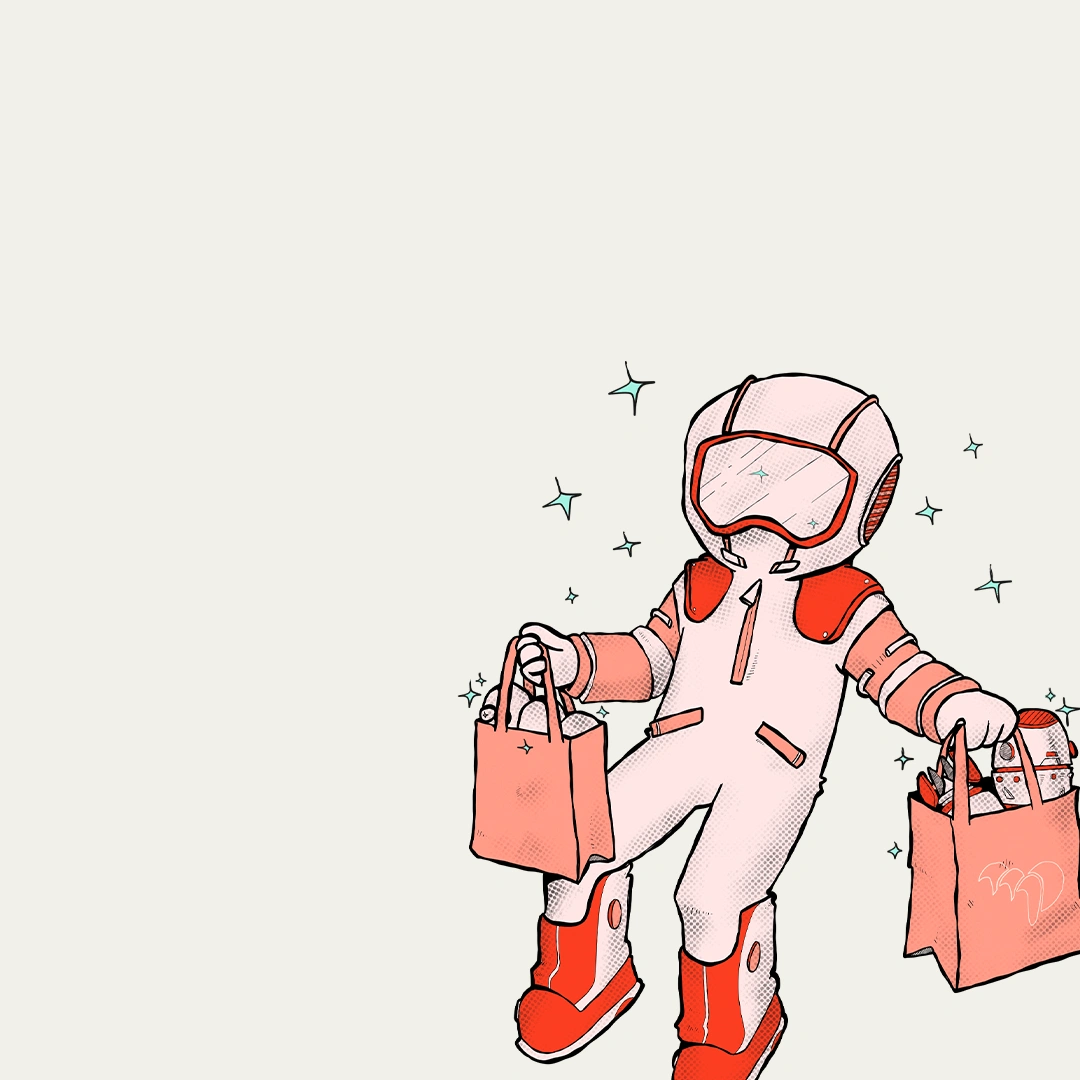
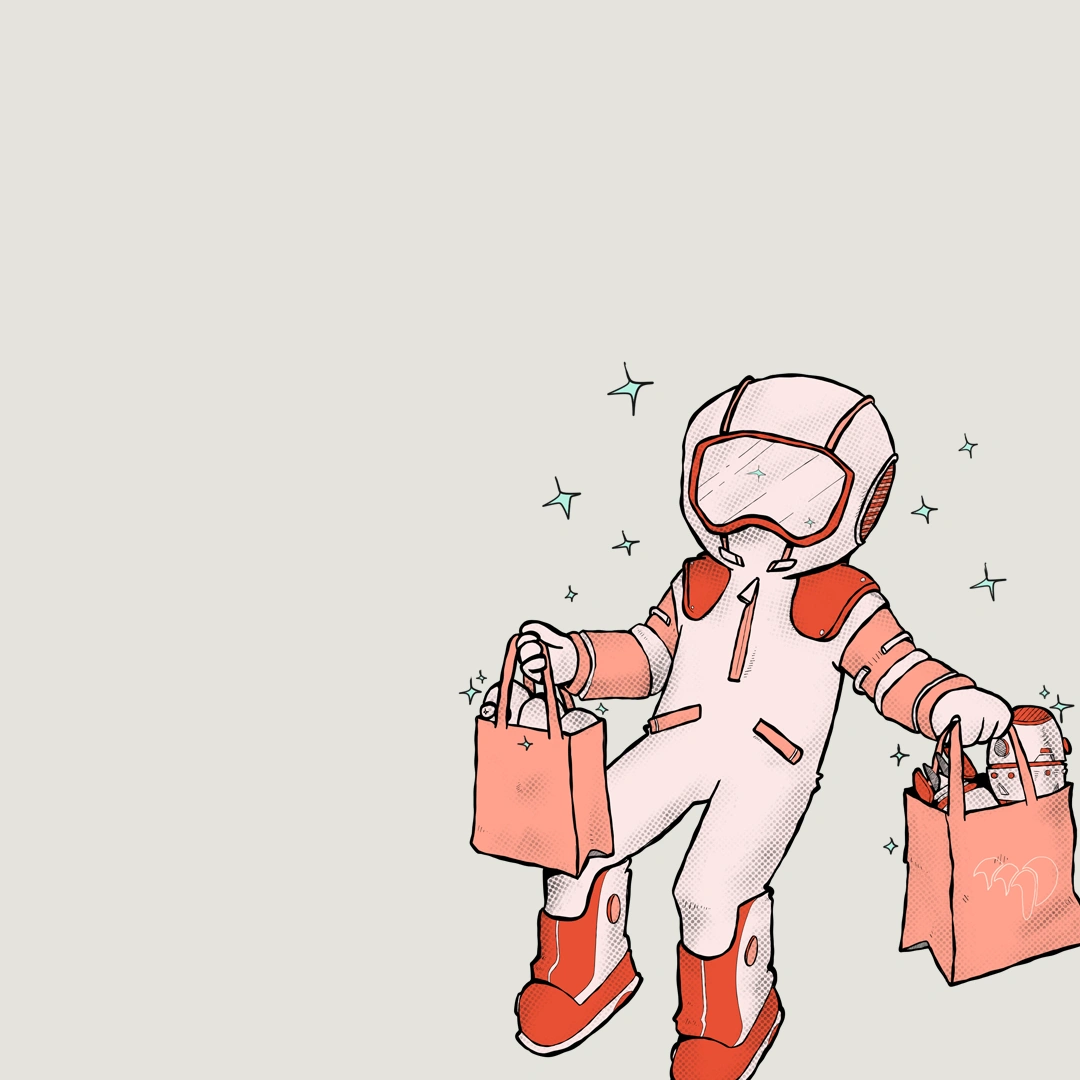
style(ui): refresh service art and theme tokens
Give illustration dedicated images and retune surfaces
so service blocks and footer match the new palette.

diff --git a/components/theme/ThemeChooser.tsx b/components/theme/ThemeChooser.tsx
@@ -47,8 +47,7 @@ function ChooserPane({ mode, imageSrc, priority }: PaneProps) {
       {/* Match home hero: Container + pt-32/md:pt-76 — not vertically centered */}
       <div className="relative z-10 mx-auto flex min-h-svh w-full max-w-7xl flex-col items-center px-16 pt-32 pb-76 text-center md:px-24 md:pt-76">
         <h1
-          style={{ color: "#0ae68e" }}
-          className="mt-16 max-w-none text-3xl font-bold leading-display tracking-heading-lg sm:text-heading-lg sm:tracking-heading-lg lg:w-[15ch]"
+          className="mt-16 max-w-none text-3xl text-shockingly-green font-bold leading-display tracking-heading-lg sm:text-heading-lg sm:tracking-heading-lg lg:w-[15ch]"
         >
           سوخت خلاقیت برای رسیدن به مدار توجه
         </h1>
@@ -294,7 +293,7 @@ export function ThemeChooser({ onComplete }: ThemeChooserProps) {
             onPointerCancel={onPointerUp}
             aria-hidden
           />
-          <div className="pointer-events-none absolute inset-y-0 w-0.5 bg-shockingly-green left-1/2 -translate-x-1/2" />
+          {/* <div className="pointer-events-none absolute inset-y-0 w-0.5 bg-shockingly-green left-1/2 -translate-x-1/2" /> */}
           <button
             type="button"
             className="absolute top-1/2 left-1/2 flex size-48 -translate-x-1/2 -translate-y-1/2 cursor-ew-resize touch-none items-center justify-center rounded-full round-keep bg-shockingly-green text-background outline-none focus-visible:ring-2 focus-visible:ring-shockingly-green focus-visible:ring-offset-2 focus-visible:ring-offset-[#0e100f]"

diff --git a/components/ServiceBlock.tsx b/components/ServiceBlock.tsx
@@ -53,14 +53,14 @@ export function ServiceBlock({
             }`}
           >
             <h3
-              className={`text-heading-sm tracking-heading-sm transition-transform duration-300 ease-out group-hover:-translate-x-1 md:text-heading md:tracking-heading ${serviceColorClass[color]}`}
+              className={`text-heading-sm tracking-heading-sm transition-transform duration-300 ${slug === "illustration" ? "bg-off-background rounded-lg p-2" : ""} ease-out group-hover:-translate-x-1 md:text-heading md:tracking-heading ${serviceColorClass[color]}`}
             >
               {name}
             </h3>
-            <p className="mt-8 text-body-sm text-foreground sm:text-body">
+            <p className={`text-body-sm text-foreground sm:text-body ${slug === "illustration" ? "bg-off-background rounded-lg p-2" : ""}`}>
               {shortDescription}
             </p>
-            <span className="mt-16 inline-flex items-center justify-center rounded-full border border-surface-25 bg-background/50 px-20 py-12 text-body-sm font-bold text-foreground transition-colors group-hover:border-surface-50">
+            <span className="mt-8 inline-flex items-center justify-center rounded-full border border-surface-25 bg-background px-20 py-12 text-body-sm font-bold text-foreground transition-colors group-hover:border-surface-50">
               کاوش {name}
             </span>
           </Reveal>

diff --git a/components/SiteFooter.tsx b/components/SiteFooter.tsx
@@ -80,17 +80,17 @@ export function SiteFooter({ settings }: SiteFooterProps) {
               </Link>
             </li>
             <li>
-              <Link href="/services/illustration" className="text-pink">
+              <Link href="/services/illustration" className="text-foreground">
                 تصویرسازی
               </Link>
             </li>
             <li>
-              <Link href="/services/web" className="text-lilac">
+              <Link href="/services/web" className="text-shockingly-green">
                 توسعه وب
               </Link>
             </li>
             <li>
-              <Link href="/services/merch" className="text-blue">
+              <Link href="/services/merch" className="text-pink">
                 مرچندایز
               </Link>
             </li>

diff --git a/app/globals.css b/app/globals.css
@@ -157,7 +157,7 @@
   --foreground: #fffcf5;
   --surface-50: #7c7c6f;
   --surface-25: #42433d;
-  --off-background: #191919;
+  --off-background: #2f3834;
   --surface-canvas: #0e100f;
   --surface-nested-panel: #191919;
   --foreground-surface: #fffcf5;
@@ -193,7 +193,7 @@
   --foreground: #0e100f;
   --surface-50: #5c5c52;
   --surface-25: #c8c4a8;
-  --off-background: #d9f3e6;
+  --off-background: #e4e4dd;
   --surface-canvas: #fffcf5;
   --surface-nested-panel: #d9f3e6;
   --foreground-surface: #0e100f;

diff --git a/lib/service-images.ts b/lib/service-images.ts
@@ -17,7 +17,7 @@ export const serviceImages: Partial<Record<string, ThemeImagePair>> = {
     dark: "/webdev-light.webp",
   },
   illustration: {
-    light: "/merchandise-light.webp",
-    dark: "/merchandise-dark.webp",
+    light: "/illustration-light.jpeg",
+    dark: "/illustration-dark.jpeg",
   }
 };
